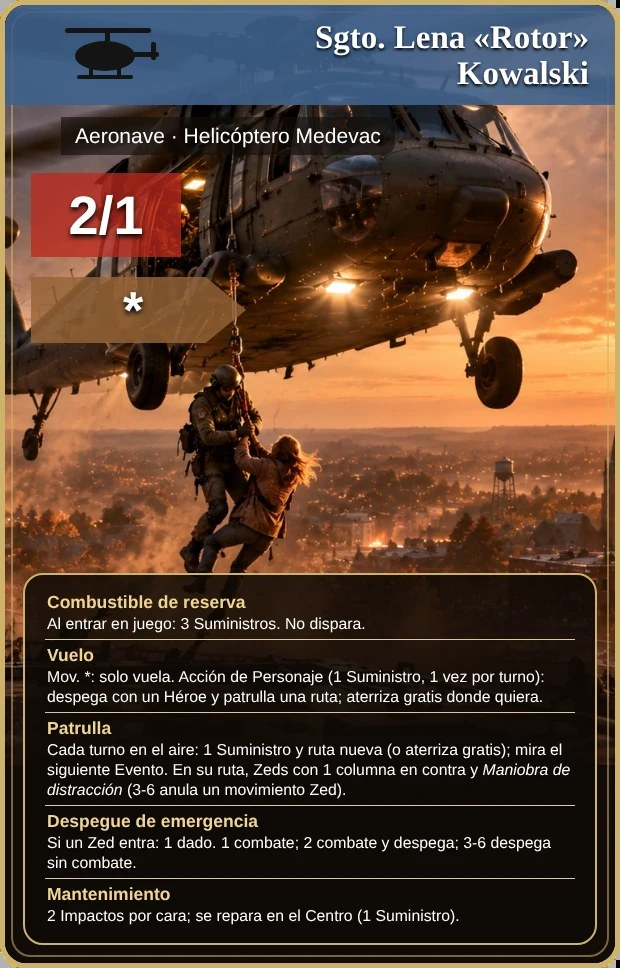
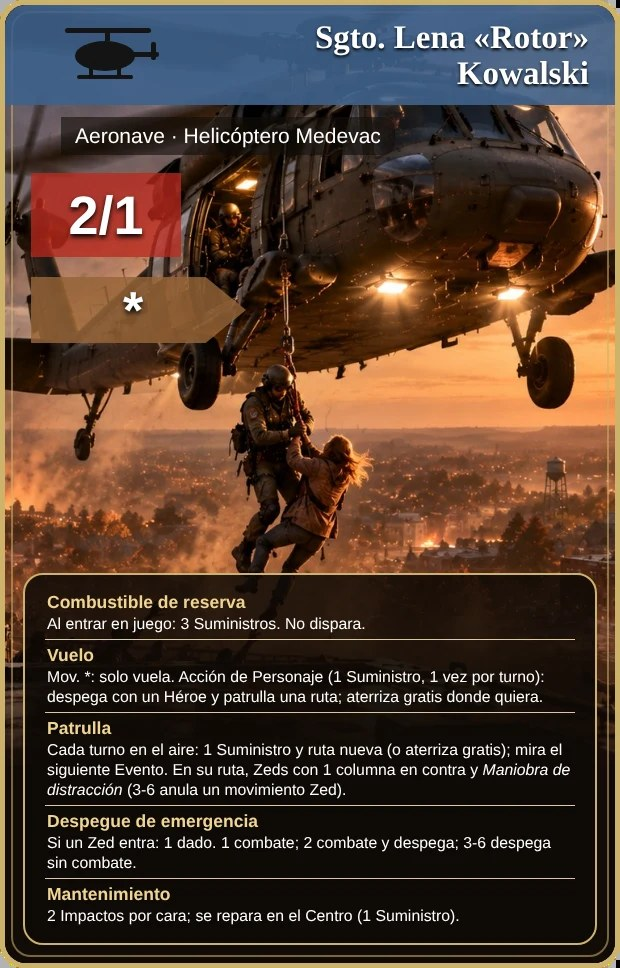
Carta del Helicóptero Medevac: ilustración desplazada a la derecha
Claude-Session: https://claude.ai/code/session_01KmRiLam16qxK6v4ebdfK1d

Changed region(s): [[0.0, 0.093, 1.0, 0.7748], [0.95, 0.6198, 1.0, 0.7438], [0.9806, 0.7438, 1.0, 0.7748]]

diff --git a/sw.js b/sw.js
@@ -1,7 +1,7 @@
 /* Service worker: permite instalar la web como app y jugar sin conexión.
    Código (html/js/css): red primero, con copia local de reserva. Imágenes y audio: caché primero. */
 'use strict';
-const CACHE = 'doz3-v56';
+const CACHE = 'doz3-v57';
 const SHELL = ['./', 'index.html', 'style.css', 'manifest.webmanifest', 'icons/icon-192.png', 'icons/icon-512.png', 'assets/portada.jpg', 'assets/fondo_nueva.webp', 'assets/fondo_ranking.webp',
   'js/version.js', 'js/data.js', 'js/events.js', 'js/dest.js', 'js/evlog.js', 'js/preview.js', 'js/obituario.js', 'js/engine.js', 'js/game.js', 'js/phases.js', 'js/actions.js', 'js/cardtext.js', 'js/ui.js', 'js/anim.js',
   'js/expansions.js', 'js/expansions2.js', 'js/sfx.js', 'js/sound.js', 'js/opciones.js', 'js/voz.js', 'js/ost.js', 'assets/sonidos/letras/letras.js', 'assets/sonidos/efectos/sfx_disparo.mp3', 'assets/sonidos/efectos/sfx_disparo_largo.mp3', 'js/mapzoom.js', 'js/seedcode.js', 'js/save.js', 'js/main.js', 'js/bot.js'];

diff --git a/js/version.js b/js/version.js
@@ -1,2 +1,2 @@
 /* Fecha y hora de la última build (hora de Madrid). Se actualiza con cada cambio publicado. */
-const BUILD_TIME = '2026-11-01 01:20';
+const BUILD_TIME = '2026-11-01 01:35';

diff --git a/CHANGELOG.md b/CHANGELOG.md
@@ -2,6 +2,11 @@
 
 Registro de cambios por publicación (push a `main`). Lo más reciente, arriba. Cada entrada lleva la misma fecha y hora que `BUILD_TIME` de `js/version.js`.
 
+## 2026-11-01 01:35
+
+### Cambios
+- **Carta del Helicóptero Medevac:** la ilustración se desplaza a la derecha para que el helicóptero quede más centrado.
+
 ## 2026-11-01 01:20
 
 ### Cambios
